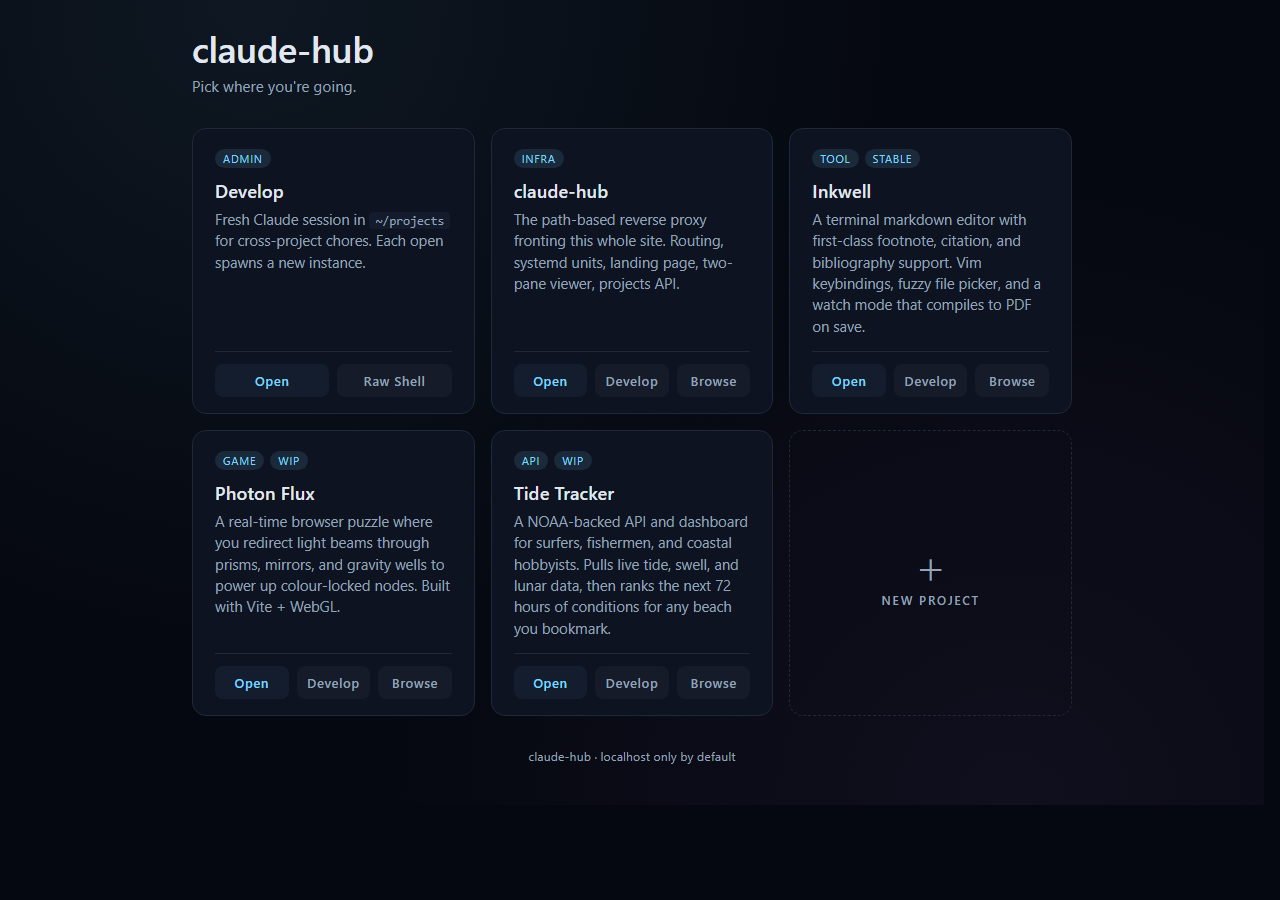
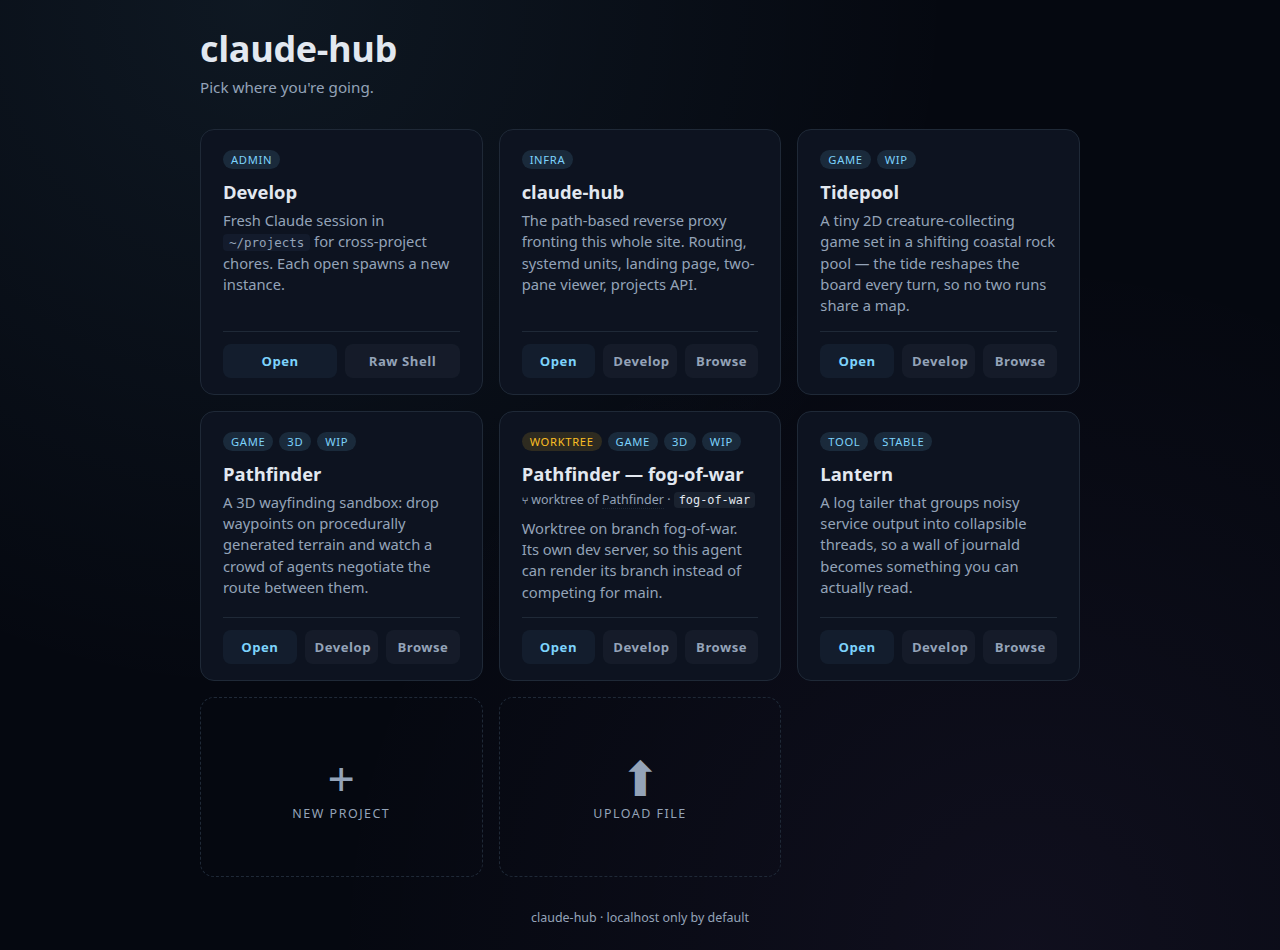
docs: refresh screenshots for the worktree cards and stacked Develop pane
All five images retaken. Two were showing UI that no longer exists:

* landing.png predates worktree cards. The new demo hub includes a worktree
  of one of its projects, so the amber badge, the `⑂ worktree of <parent> ·
  <branch>` line, and the sort-under-parent grouping are all visible.
* browse-with-develop.png still showed the Develop pane on the RIGHT. T52
  dropped the side-by-side orientation logic — the pane has been stacked
  below the tree/tabs row at full width since (V38). The README described
  the old layout too; that text is now corrected.

Captions were stale in three more places, independent of the images:

* Develop said ttyd runs `claude --continue`. Since V47/V48 each conversation
  is its own tmux session resumed by session id, and a project can hold
  several at once.
* Browse mentioned the eye icon only for `*.html`. It covers `*.svg` (T72)
  and anything a project maps through `routes` (T73).
* new-project.png was captured with Clone selected, which hides the Template
  fieldset the surrounding paragraph spends a sentence per template on. Now
  captured with Skip selected, so all five templates and the Firebase
  checkbox are actually in frame.

Also fixes a wrapping bug the refresh exposed: the card provenance line was a
flex container, so "·" became its own flex item and wrapped off alone at the
end of a line, away from the branch it belongs to. Inline flow now, with the
separator glued to the branch.
[…]

diff --git a/landing.html b/landing.html
@@ -217,11 +217,10 @@
       font-size: 0.78rem;
       color: var(--muted);
       margin: -2px 0 8px;
-      display: flex;
-      align-items: baseline;
-      gap: 6px;
-      flex-wrap: wrap;
+      line-height: 1.6;
     }
+    /* Keep the separator glued to the branch so it can't wrap off alone. */
+    .card .provenance .branch { white-space: nowrap; }
     .card .provenance a { color: var(--muted); text-decoration: none; border-bottom: 1px dotted var(--edge); }
     .card .provenance a:hover { color: var(--accent); border-bottom-color: var(--accent); }
     .card .provenance code {
@@ -483,7 +482,9 @@
       const link = parent
         ? `<a href="#project-${encodeURIComponent(p.worktreeOf)}" title="${name}">${label}</a>`
         : `<span title="${name} — no longer on this hub">${label}</span>`;
-      const branch = p.branch ? ` · <code>${escapeHtml(p.branch)}</code>` : '';
+      const branch = p.branch
+        ? ` <span class="branch">· <code>${escapeHtml(p.branch)}</code></span>`
+        : '';
       return `<div class="provenance">⑂ worktree of ${link}${branch}</div>`;
     }
 

diff --git a/README.md b/README.md
@@ -28,19 +28,19 @@ unless you opt in (see "Sharing across devices" below).
 
 ## Screenshots
 
-**Landing page** — every project gets a card with badges, description, and three actions. The `+` tile opens a dialog that bootstraps a brand-new project end-to-end (folder, README, AGENTS.md, optional `gh repo create` / clone, ttyd terminal, fresh Claude Code session asking "what should we build here?"). Claude is the engine behind every card, every Develop button, every scaffolded project:
+**Landing page** — every project gets a card with badges, description, and three actions. A `git worktree` checkout of another project (`Pathfinder — fog-of-war` here) gets an amber **worktree** badge and a line naming the parent and branch, and sorts directly beneath the project it branched from rather than drifting to the end of the list by age. The `+` tile opens a dialog that bootstraps a brand-new project end-to-end (folder, README, AGENTS.md, optional `gh repo create` / clone, ttyd terminal, fresh Claude Code session asking "what should we build here?"). Claude is the engine behind every card, every Develop button, every scaffolded project:
 
 ![Landing page](docs/img/landing.png)
 
-**Browse** (`/view/<project>/`) — collapsible tree on the left (gitignored entries dimmed and lazy-loaded), tabbed iframes on the right. README opens in the initial tab; markdown renders with YAML frontmatter highlighted, `*.html` files get an eye icon to render the page in-place, and the file watcher pushes live updates so edits Claude makes in your terminal show up here without a manual refresh:
+**Browse** (`/view/<project>/`) — collapsible tree on the left (gitignored entries dimmed and lazy-loaded, names tinted by git status), tabbed iframes on the right. README opens in the initial tab; markdown renders with YAML frontmatter highlighted, and an eye icon renders a file in place — `*.html` and `*.svg` directly, plus any file a project maps to a URL via `routes` in its `.project-meta.json`, which is how a Markdown source previews through the site's real renderer. The file watcher pushes live updates, so edits Claude makes in your terminal show up here without a manual refresh:
 
 ![Browse — file viewer](docs/img/browse-default.png)
 
-**Browse + Develop side-by-side** — the terminal icon in the header (or `?dev=1` on the URL) opens the `Develop` pane to the right with a draggable splitter. The same long-lived tmux Claude session that you'd reach via the `Develop` button is now beside the file viewer, so you can read, ask, and edit in one window. This is the core workflow: Claude writes, the tree refreshes, your tab reloads, you keep reading:
+**Browse + Develop together** — the terminal icon in the header (or `?dev=1` on the URL) opens the `Develop` pane below the tree and tabs, spanning the full width, with a draggable splitter between them. The same long-lived tmux Claude session you'd reach via the `Develop` button is now in the same window as the file viewer, so you can read, ask, and edit without switching. Each project can hold several Claude conversations at once — the tab strip along the top of the pane switches between them, and each one keeps its own scrollback. This is the core workflow: Claude writes, the tree refreshes, your tab reloads, you keep reading:
 
 ![Browse + Develop pane](docs/img/browse-with-develop.png)
 
-**Develop** (`/term/<project>/`) — the same browser terminal full-screen. ttyd attaches to a per-project tmux session running `claude --continue`, so you pick up the same conversation from any device. Claude is doing the work; the hub is the interface:
+**Develop** (`/term/<project>/`) — the same browser terminal full-screen. ttyd attaches to a long-lived tmux session per conversation, and each one resumes its own Claude session by id — so you pick up exactly where you left off, from any device, on whichever conversation you were in. Claude is doing the work; the hub is the interface:
 
 ![Develop terminal](docs/img/develop.png)
 
